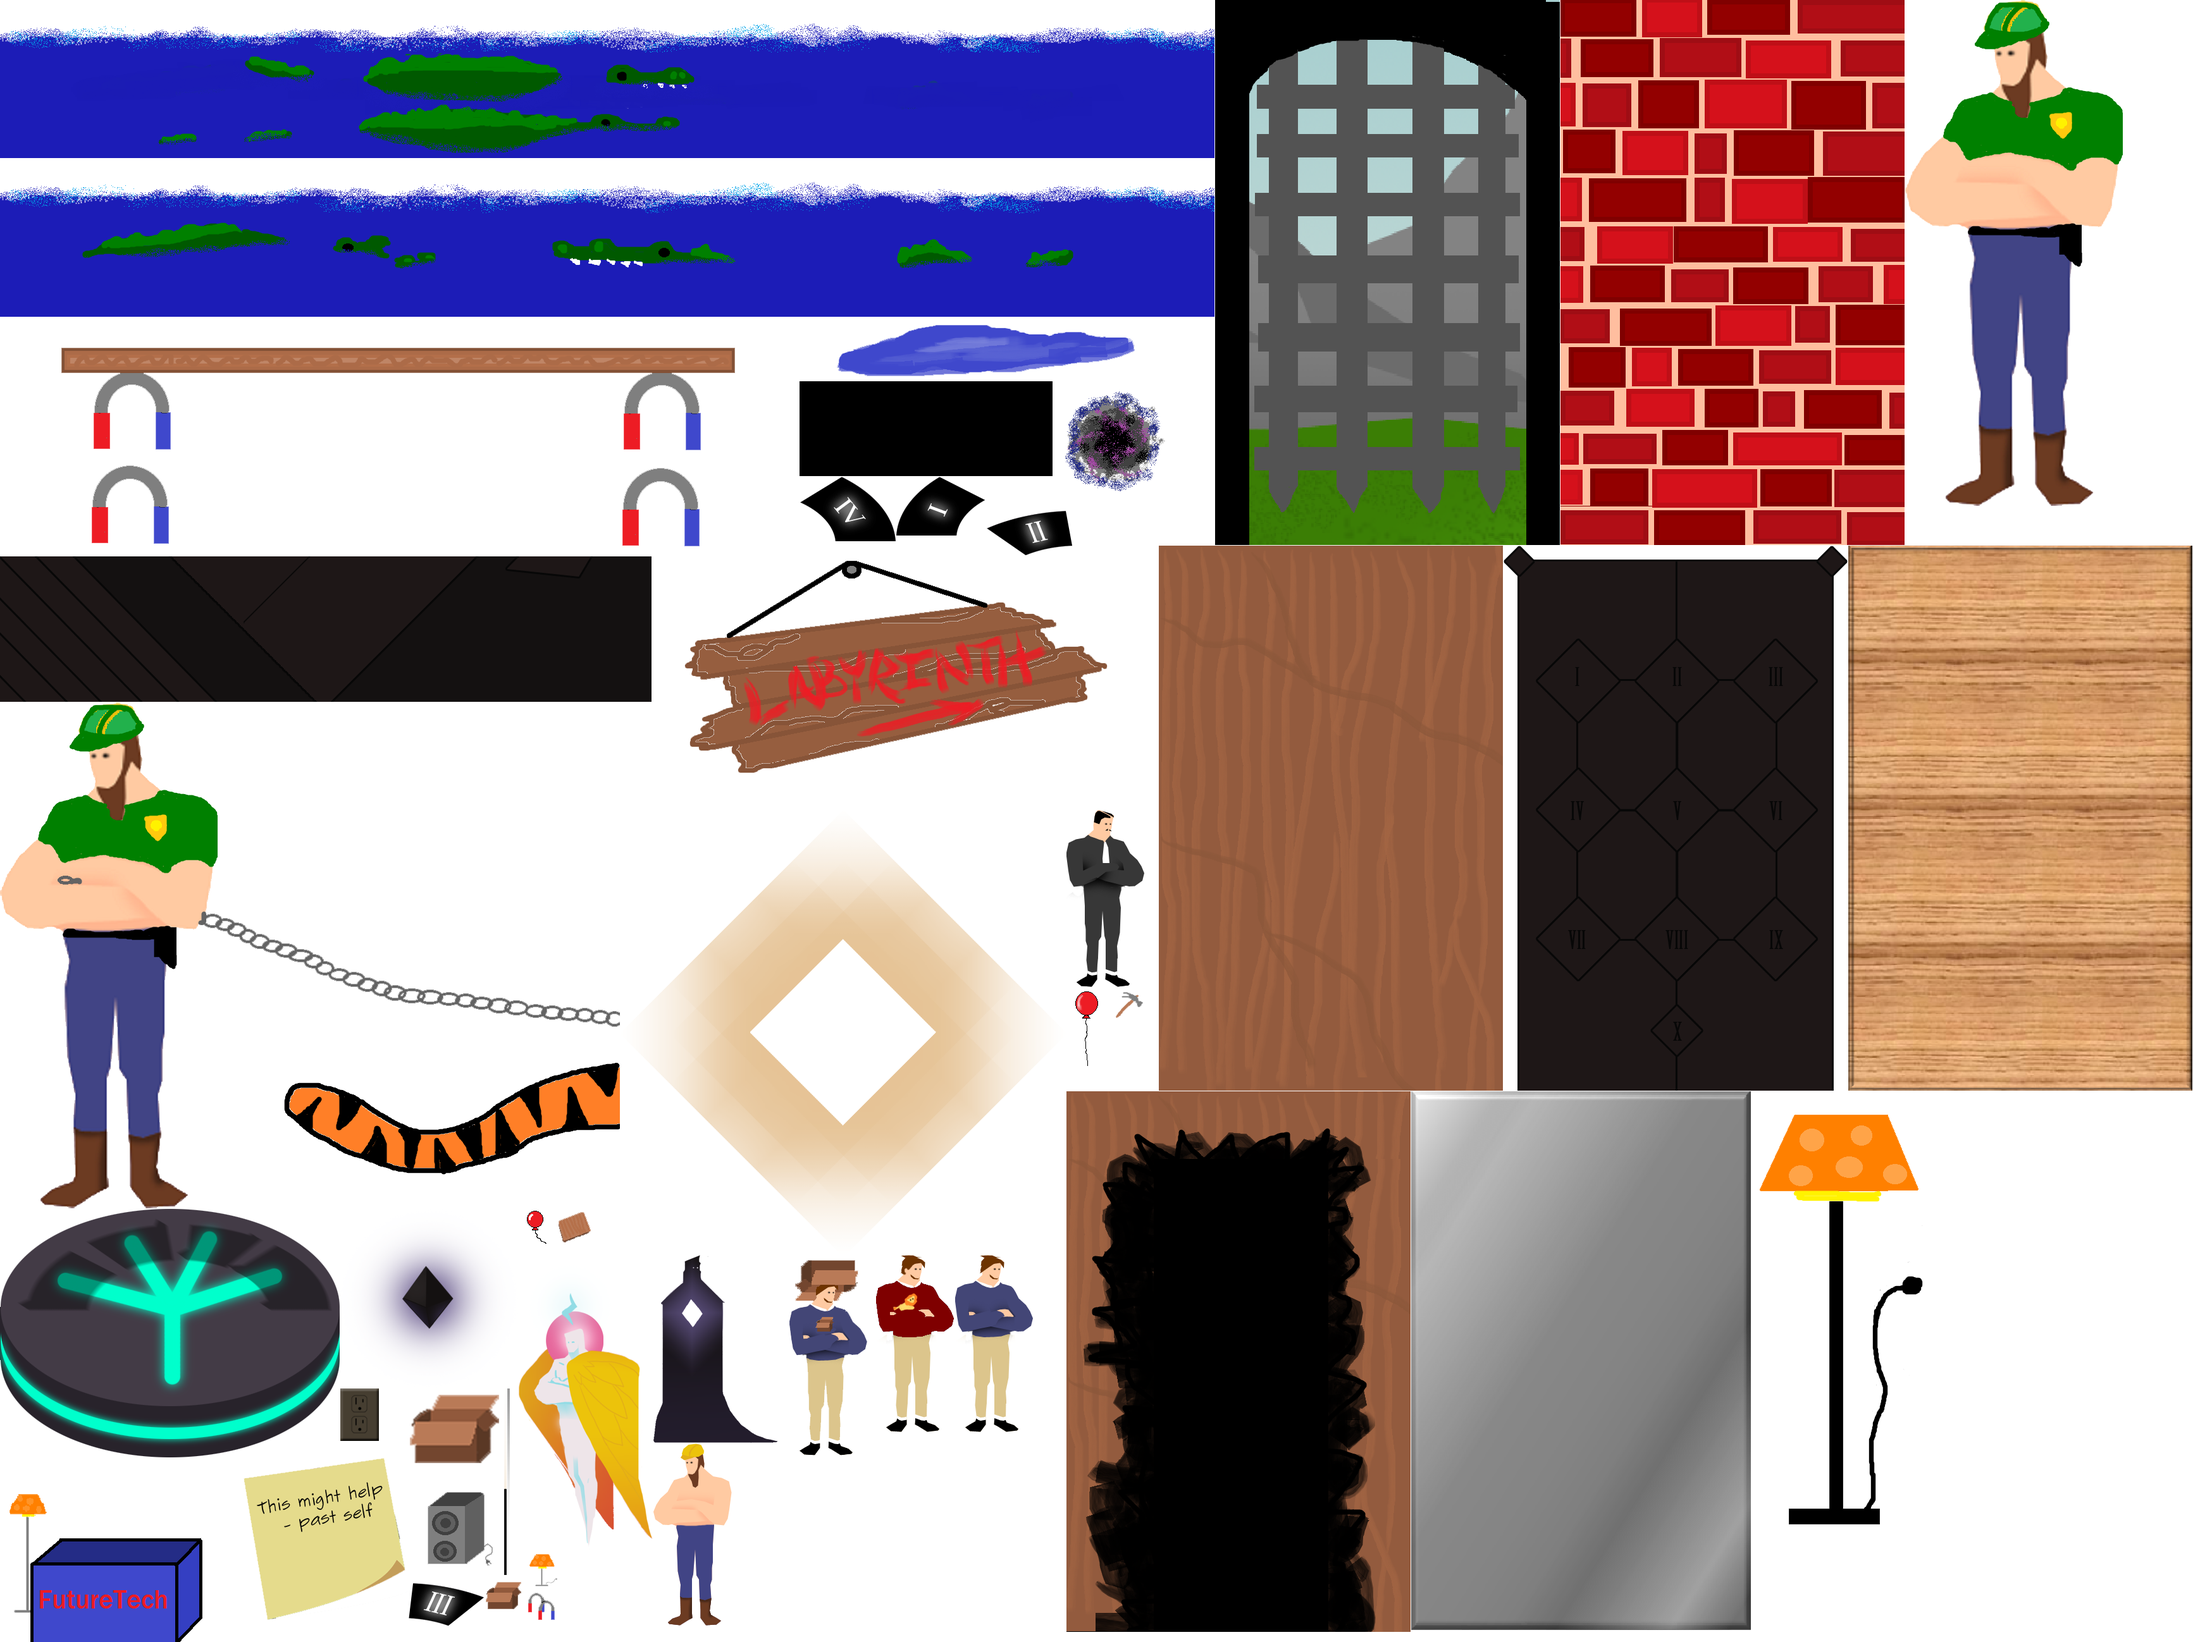
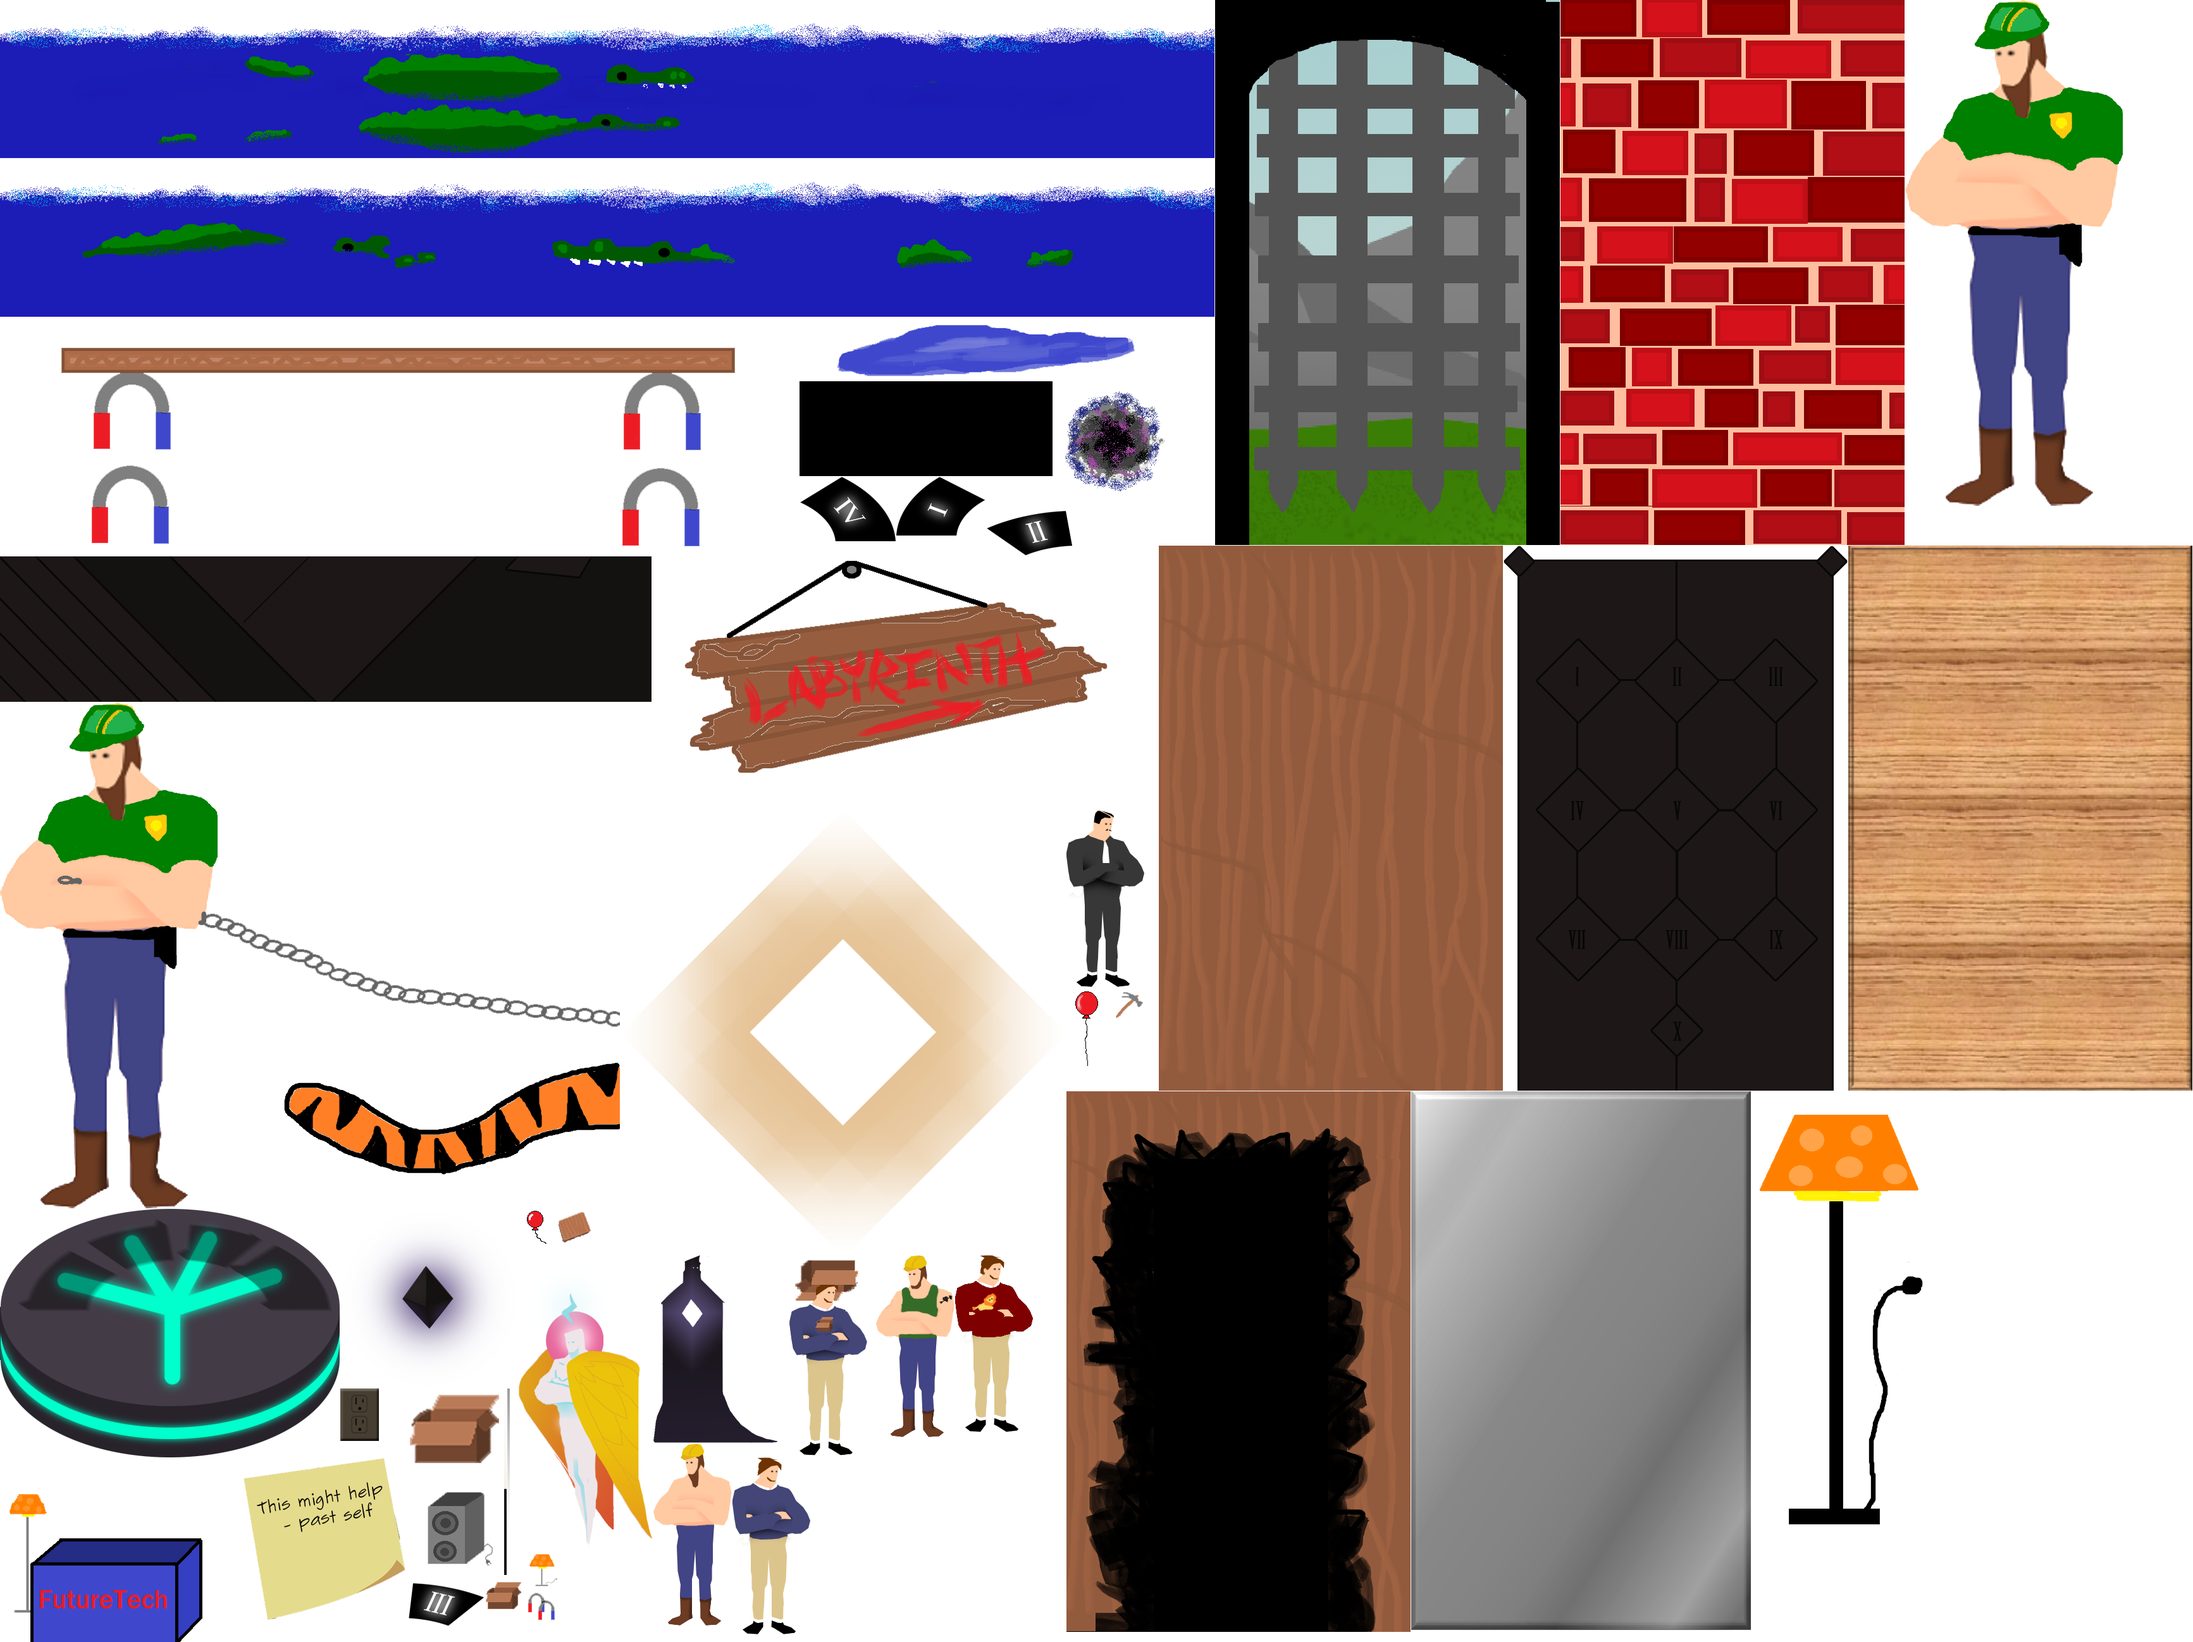
Added a new builder picture

Changed region(s): [[0.3738, 0.7486, 0.4673, 0.8733], [0.3115, 0.8733, 0.3738, 0.9981]]

diff --git a/index.bundle.js b/index.bundle.js
@@ -44259,7 +44259,7 @@ module.exports=//GRAVITY_LIGHTER
 		{
 			"id": "johnson15",
 			"displayName": "Angel Johnson XV",
-			"sprite": "builder"
+			"sprite": "builder2"
 		}
 	],
 
@@ -47525,7 +47525,7 @@ ConstructionScene.prototype = new Scene();
 ConstructionScene.prototype.added = function()
 {
 	// create characters
-	var doorGuy = this.createClickableSprite("builder_guy", 200, 200);
+	var doorGuy = this.createClickableSprite("builder_guy2", 200, 200);
 	doorGuy.addAction({
 		action: "triggerConversation",
 		target: require("../data/johnson_xv_conversation.json")
@@ -48801,6 +48801,7 @@ module.exports =
 	"balloonLarge":[1686,1562,72,128],
 	"brickwall":[2467,0,544,862],
 	"builder_guy":[1033,2283,124,288],
+	"builder_guy2":[1385,1985,124,288],
 	"cardboard":[881,1912,60,60],
 	"cardboard_preacher":[1230,1985,154,319],
 	"cardboardbox":[767,2498,60,60],
@@ -48816,7 +48817,7 @@ module.exports =
 	"hammer":[1759,1562,60,60],
 	"heaven_angel":[820,1985,212,467],
 	"heaven_player":[1033,1985,196,297],
-	"humane_guy_sprite":[1385,1985,124,280],
+	"humane_guy_sprite":[1510,1985,124,280],
 	"keydoor":[2377,863,544,862],
 	"labyrinth_sign":[1031,880,800,400],
 	"lamp":[828,2453,60,60],
@@ -48824,7 +48825,7 @@ module.exports =
 	"magnets":[828,2514,60,60],
 	"moat_full":[0,0,1920,250],
 	"moat_hungry":[0,251,1920,250],
-	"normal_guy_sprite":[1510,1985,124,280],
+	"normal_guy_sprite":[1158,2305,124,280],
 	"outlet":[538,2196,61,83],
 	"pit_bridge":[0,502,1263,226],
 	"pit_edge":[1264,603,400,150],
@@ -48863,17 +48864,18 @@ module.exports =
 "characters":
 {
 	url: "media/characters_atlas.png",
-	width: 887,
-	height: 503,
+	width: 895,
+	height: 502,
 	filter: THREE.LinearFilter,
 	sprites:
 	{
-	"builder":[426,0,158,243],
-	"humane_guy":[742,0,144,250],
+	"builder":[591,0,158,243],
+	"builder2":[426,0,164,250],
+	"humane_guy":[583,251,144,250],
 	"johnson1":[0,0,212,371],
-	"normal_guy":[585,0,156,251],
+	"normal_guy":[426,251,156,251],
 	"player":[213,0,212,371],
-	"suit":[426,244,144,259],
+	"suit":[750,0,144,259],
 	},
 },
 }

diff --git a/src/sdk/atlases/index.js b/src/sdk/atlases/index.js
@@ -18,6 +18,7 @@ module.exports =
 	"balloonLarge":[1686,1562,72,128],
 	"brickwall":[2467,0,544,862],
 	"builder_guy":[1033,2283,124,288],
+	"builder_guy2":[1385,1985,124,288],
 	"cardboard":[881,1912,60,60],
 	"cardboard_preacher":[1230,1985,154,319],
 	"cardboardbox":[767,2498,60,60],
@@ -33,7 +34,7 @@ module.exports =
 	"hammer":[1759,1562,60,60],
 	"heaven_angel":[820,1985,212,467],
 	"heaven_player":[1033,1985,196,297],
-	"humane_guy_sprite":[1385,1985,124,280],
+	"humane_guy_sprite":[1510,1985,124,280],
 	"keydoor":[2377,863,544,862],
 	"labyrinth_sign":[1031,880,800,400],
 	"lamp":[828,2453,60,60],
@@ -41,7 +42,7 @@ module.exports =
 	"magnets":[828,2514,60,60],
 	"moat_full":[0,0,1920,250],
 	"moat_hungry":[0,251,1920,250],
-	"normal_guy_sprite":[1510,1985,124,280],
+	"normal_guy_sprite":[1158,2305,124,280],
 	"outlet":[538,2196,61,83],
 	"pit_bridge":[0,502,1263,226],
 	"pit_edge":[1264,603,400,150],
@@ -80,17 +81,18 @@ module.exports =
 "characters":
 {
 	url: "media/characters_atlas.png",
-	width: 887,
-	height: 503,
+	width: 895,
+	height: 502,
 	filter: THREE.LinearFilter,
 	sprites:
 	{
-	"builder":[426,0,158,243],
-	"humane_guy":[742,0,144,250],
+	"builder":[591,0,158,243],
+	"builder2":[426,0,164,250],
+	"humane_guy":[583,251,144,250],
 	"johnson1":[0,0,212,371],
-	"normal_guy":[585,0,156,251],
+	"normal_guy":[426,251,156,251],
 	"player":[213,0,212,371],
-	"suit":[426,244,144,259],
+	"suit":[750,0,144,259],
 	},
 },
 }

diff --git a/src/game/scene_past_construction.js b/src/game/scene_past_construction.js
@@ -17,7 +17,7 @@ ConstructionScene.prototype = new Scene();
 ConstructionScene.prototype.added = function()
 {
 	// create characters
-	var doorGuy = this.createClickableSprite("builder_guy", 200, 200);
+	var doorGuy = this.createClickableSprite("builder_guy2", 200, 200);
 	doorGuy.addAction({
 		action: "triggerConversation",
 		target: require("../data/johnson_xv_conversation.json")
